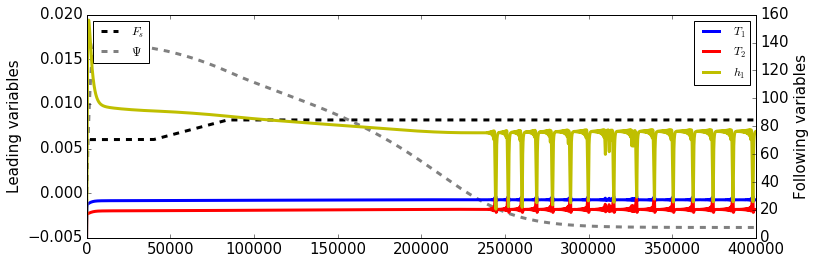
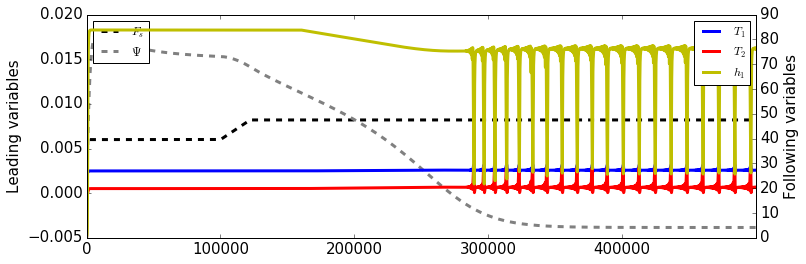
laptop

diff --git a/PYTHON_files/Following.py b/PYTHON_files/Following.py
@@ -13,13 +13,14 @@
 
 import numpy as np
 import matplotlib.pyplot as plt
+from time import *
 
 # ---------------------------------------------- #
 # INTEGRATION PARAMETERS
 # ---------------------------------------------- #
 
-tmax=30000
-dt=1
+tmax=60000
+dt=0.1
 
 # ---------------------------------------------- #
 # PHYSICAL PARAMETERS (TAB 8.6, NCD, TAB 1, Roberts)
@@ -56,7 +57,7 @@ h10 = 0
 
 def force():
     global tau_ext
-    tau_ext=min(-0.01+max(t-10000,0)*0.00001,0.00001)
+    tau_ext=min(-0.01+max(t-20000,0)*0.00001,0.00001)
 
 # ---------------------------------------------- #
 # HELPER EQUATIONS
@@ -97,6 +98,8 @@ T2vec=[T20]
 Hvec=[h10]
 tvec=[0]
 i=0
+print 'Computing Integration...'
+start = clock()
 while i<tmax/dt:
     t=i*dt
     
@@ -125,14 +128,26 @@ while i<tmax/dt:
     tvec.append(t)
     force()
     i=i+1
+    if np.mod(t,np.int(tmax/10.))==0:
+        print np.int(t/tmax*100) ,'% complete'
+print 'done in %.3f seconds!' % (clock()-start)
 
 tvec=np.array(tvec)/1.
+#%%
+fig,ax = plt.subplots(figsize=(8,4))
+ax.plot(tvec,T1vec,'b',linewidth=3)
+ax.plot(tvec,T2vec,'r',linewidth=3)
+ax.legend([r'$T_1$',r'$T_2$'],loc='best')
+ax.set_xlim([5000,tvec[-1]])
+ax2.set_ylim([10,30])
+ax.set_xlabel('Time',fontsize=15)
+ax.set_ylabel(r'$T_1$, $T_2$',fontsize=15)
+ax.set_xticks([0,10000,20000,30000,40000,50000])
+ax.tick_params(axis='both',which='major',labelsize=15)
 
-plt.plot(tvec,T1vec,linewidth=3)
-plt.plot(tvec,T2vec,linewidth=3)
-plt.plot(tvec,np.array(Hvec),linewidth=3)
-plt.legend([r'$T_1$',r'$T_2$',r'$h_1$'],loc='best')
-plt.xlim([5000,tvec[-1]])
-plt.xlabel('Time',fontsize=15)
-plt.ylabel(r'Variables',fontsize=15)
-plt.tick_params(axis='both',which='major',labelsize=15)
+ax2=ax.twinx()
+ax2.plot(tvec,np.array(Hvec),'g',linewidth=3)
+ax2.set_ylabel(r'$h_1$',fontsize=15)
+ax2.tick_params(axis='both',which='major',labelsize=15)
+ax2.legend([r'$h_1$'],loc='lower right')
+ax2.set_ylim([20,130])

diff --git a/PYTHON_files/Coupled.py b/PYTHON_files/Coupled.py
@@ -8,12 +8,13 @@
 
 import numpy as np
 import matplotlib.pyplot as plt
+from time import *
 
 # ---------------------------------------------- #
 # INTEGRATION PARAMETERS
 # ---------------------------------------------- #
 
-tmax=400000.
+tmax=500000.
 dt=1
 
 # ---------------------------------------------- #
@@ -71,11 +72,11 @@ h10 = 0
 
 def force():
     global Fs
-    Fs=min(0.006+max(0.00000005*(t-40000),0),0.0082)
+    Fs=min(0.006+max(0.0000001*(t-100000),0),0.0082)
     
 def couple(DT):
     global tau_ext
-    tau_ext=-0.01+0.01*(DT-23)
+    tau_ext=-0.01+0.01*max(DT-23,0)
     
 # ---------------------------------------------- #
 # HELPER EQUATIONS
@@ -136,6 +137,8 @@ T2vec=[T20]
 Hvec=[h10]
 tvec=[0]
 i=0
+print 'Computing Integration...'
+start = clock()
 while i<tmax/dt:
     t=i*dt  
     force()
@@ -184,6 +187,9 @@ while i<tmax/dt:
     
     tvec.append(t)
     i=i+1
+    if np.mod(t,np.int(tmax/100.))==0:
+        print np.int(t/tmax*100) ,'% complete'
+print 'done in %.3f seconds!' % (clock()-start)
 
 tvec=np.array(tvec)/1.
 #%%
@@ -199,7 +205,7 @@ ax2 = ax1.twinx()
 ax2.plot(tvec,T1vec,'b',linewidth=3)
 ax2.plot(tvec,T2vec,'r',linewidth=3)
 ax2.plot(tvec,np.array(Hvec),'y',linewidth=3)
-ax2.set_xlim([0,tvec[-1]])
+ax2.set_xlim([0000,tvec[-1]])
 #plt.ylim([-0.002,0.02])
 l2=ax2.legend([r'$T_1$',r'$T_2$',r'$h_1$'],loc='upper right')
 l2.set_zorder(10)

diff --git a/PYTHON_files/Leading.py b/PYTHON_files/Leading.py
@@ -113,13 +113,22 @@ while i<tmax/dt:
     i=i+1
 
 tvec=np.array(tvec)/1.
-#plt.plot(tvec,DTvec,linewidth=3)
+
+#%%
+fig,ax = plt.subplots(figsize=(8,4))
 #plt.plot(tvec,DSvec,linewidth=3)
-plt.plot(tvec,np.array(Fvec),linewidth=3)
-plt.plot(tvec,np.array(PSIvec),linewidth=3)
-plt.legend([r'$F_s$',r'$\Psi$',r'$Fs(t)*100$'],loc='best')
-plt.xlim([10000,tvec[-1]])
+ax.plot(tvec,np.array(Fvec),linewidth=3)
+ax.plot(tvec,np.array(PSIvec),linewidth=3)
+ax.legend([r'$F_s$',r'$\Psi$'],loc='lower left')
+ax.set_xlim([10000,tvec[-1]])
 #plt.ylim([-0.002,0.02])
-plt.xlabel('Time',fontsize=15)
-plt.ylabel(r'Variables',fontsize=15)
-plt.tick_params(axis='both',which='major',labelsize=15)
+ax.set_xlabel('Time',fontsize=15)
+ax.set_ylabel(r'Variables',fontsize=15)
+ax.tick_params(axis='both',which='major',labelsize=15)
+
+ax2 = ax.twinx()
+ax2.plot(tvec,DTvec,'r',linewidth=3)
+ax2.set_ylabel(r'$\Delta T$',fontsize=15)
+ax2.tick_params(axis='both',which='major',labelsize=15)
+ax2.legend([r'$\Delta T$'],loc='lower right')
+ax2.set_ylim([15,25])
